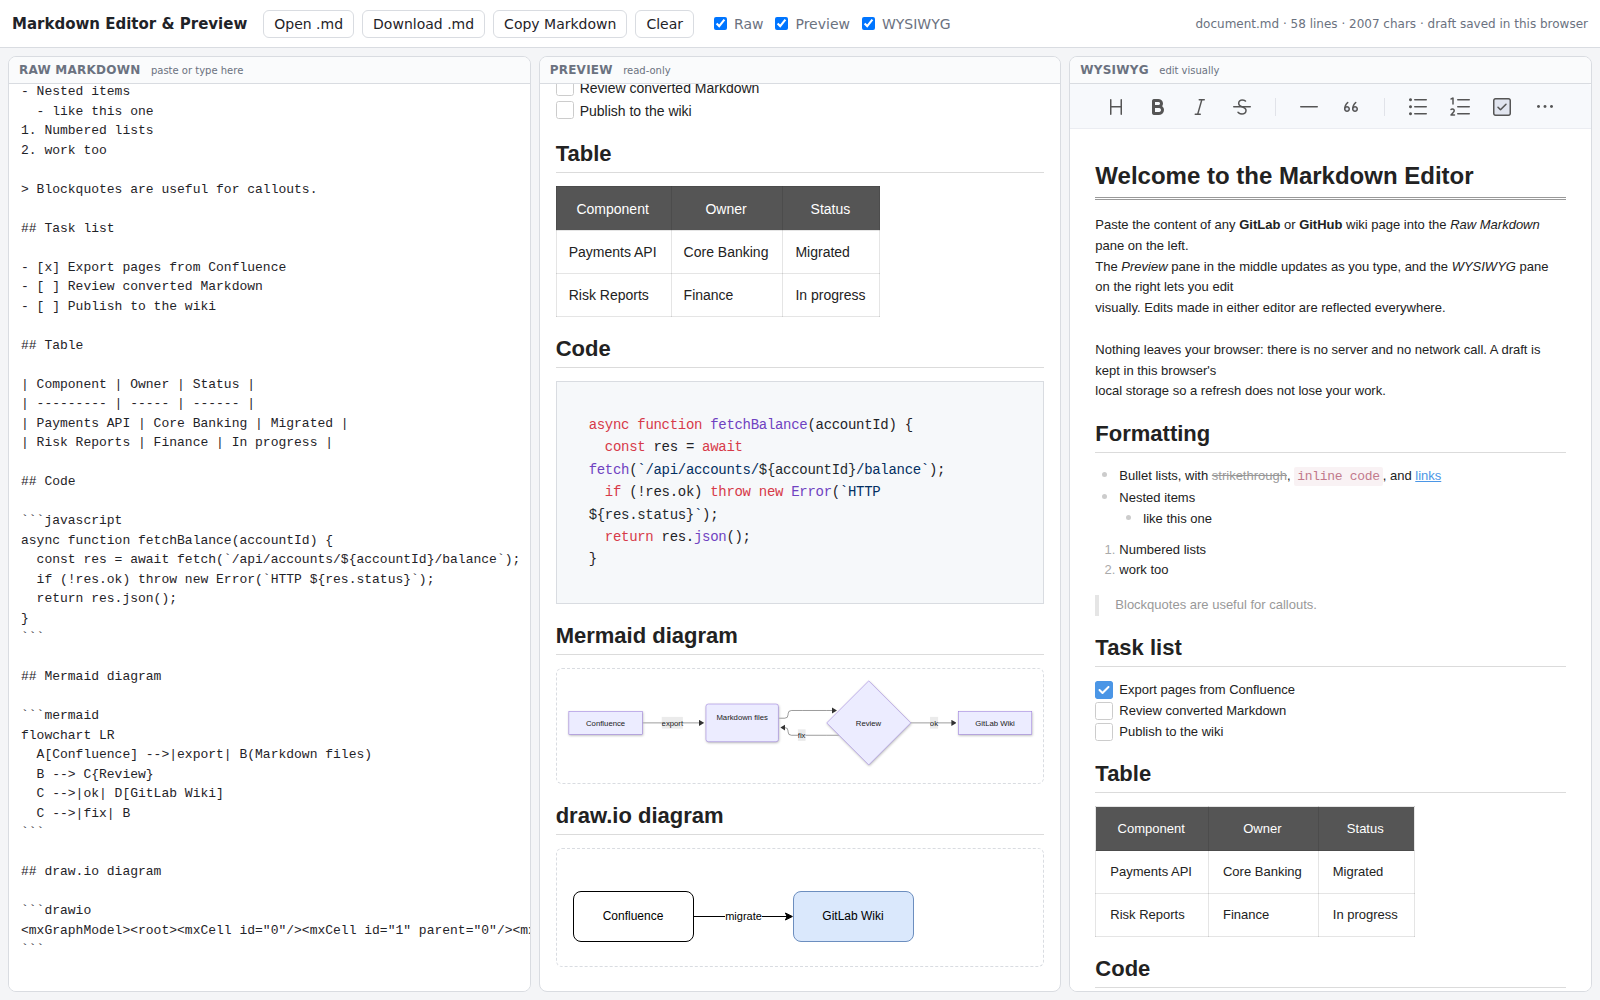
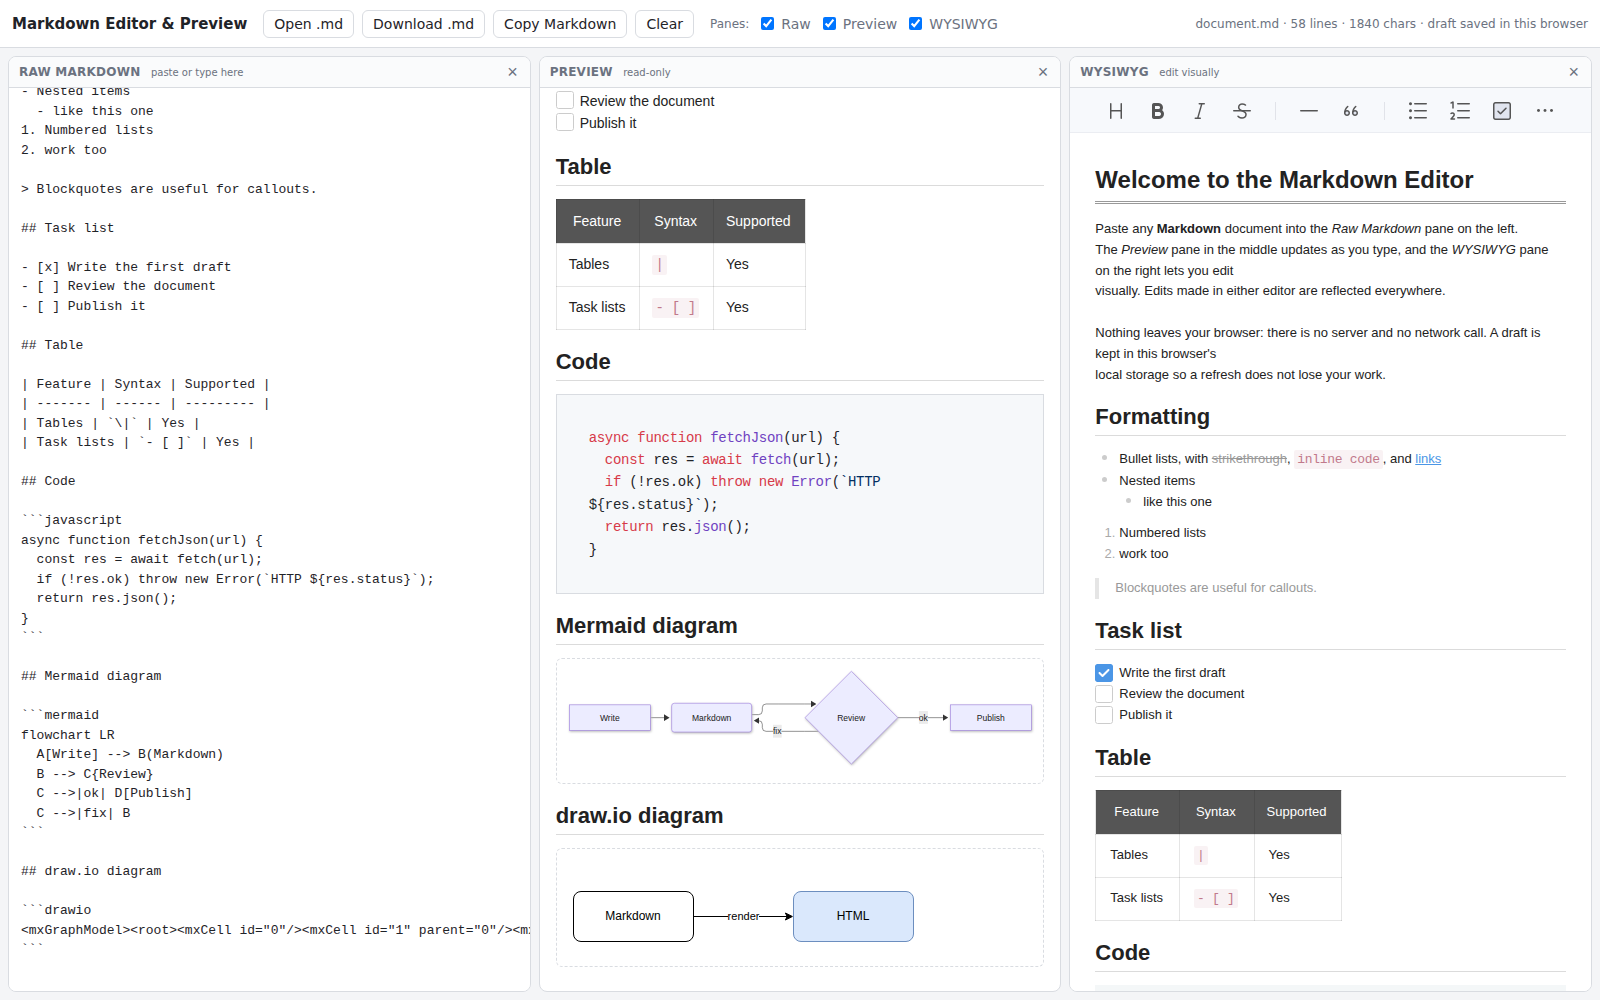
Make README and sample document generic
Remove wiki-migration and domain-specific wording from the README,
sample document, and package description so the project reads as a
general-purpose Markdown editor. Refresh the README screenshot.

Claude-Session: https://claude.ai/code/session_01Jamq97i9hDNVxsa4sEo2LB

diff --git a/src/sample.md b/src/sample.md
@@ -1,6 +1,6 @@
 # Welcome to the Markdown Editor
 
-Paste the content of any **GitLab** or **GitHub** wiki page into the *Raw Markdown* pane on the left.
+Paste any **Markdown** document into the *Raw Markdown* pane on the left.
 The *Preview* pane in the middle updates as you type, and the *WYSIWYG* pane on the right lets you edit
 visually. Edits made in either editor are reflected everywhere.
 
@@ -9,7 +9,7 @@ local storage so a refresh does not lose your work.
 
 ## Formatting
 
-- Bullet lists, with ~~strikethrough~~, `inline code`, and [links](https://docs.gitlab.com/ee/user/markdown.html)
+- Bullet lists, with ~~strikethrough~~, `inline code`, and [links](https://commonmark.org/help/)
 - Nested items
   - like this one
 1. Numbered lists
@@ -19,22 +19,22 @@ local storage so a refresh does not lose your work.
 
 ## Task list
 
-- [x] Export pages from Confluence
-- [ ] Review converted Markdown
-- [ ] Publish to the wiki
+- [x] Write the first draft
+- [ ] Review the document
+- [ ] Publish it
 
 ## Table
 
-| Component | Owner | Status |
-| --------- | ----- | ------ |
-| Payments API | Core Banking | Migrated |
-| Risk Reports | Finance | In progress |
+| Feature | Syntax | Supported |
+| ------- | ------ | --------- |
+| Tables | `\|` | Yes |
+| Task lists | `- [ ]` | Yes |
 
 ## Code
 
 ```javascript
-async function fetchBalance(accountId) {
-  const res = await fetch(`/api/accounts/${accountId}/balance`);
+async function fetchJson(url) {
+  const res = await fetch(url);
   if (!res.ok) throw new Error(`HTTP ${res.status}`);
   return res.json();
 }
@@ -44,14 +44,14 @@ async function fetchBalance(accountId) {
 
 ```mermaid
 flowchart LR
-  A[Confluence] -->|export| B(Markdown files)
+  A[Write] --> B(Markdown)
   B --> C{Review}
-  C -->|ok| D[GitLab Wiki]
+  C -->|ok| D[Publish]
   C -->|fix| B
 ```
 
 ## draw.io diagram
 
 ```drawio
-<mxGraphModel><root><mxCell id="0"/><mxCell id="1" parent="0"/><mxCell id="2" value="Confluence" style="rounded=1;whiteSpace=wrap;html=1;" vertex="1" parent="1"><mxGeometry x="20" y="20" width="120" height="50" as="geometry"/></mxCell><mxCell id="3" value="GitLab Wiki" style="rounded=1;whiteSpace=wrap;html=1;fillColor=#dae8fc;strokeColor=#6c8ebf;" vertex="1" parent="1"><mxGeometry x="240" y="20" width="120" height="50" as="geometry"/></mxCell><mxCell id="4" value="migrate" style="edgeStyle=orthogonalEdgeStyle;rounded=0;html=1;" edge="1" parent="1" source="2" target="3"><mxGeometry relative="1" as="geometry"/></mxCell></root></mxGraphModel>
+<mxGraphModel><root><mxCell id="0"/><mxCell id="1" parent="0"/><mxCell id="2" value="Markdown" style="rounded=1;whiteSpace=wrap;html=1;" vertex="1" parent="1"><mxGeometry x="20" y="20" width="120" height="50" as="geometry"/></mxCell><mxCell id="3" value="HTML" style="rounded=1;whiteSpace=wrap;html=1;fillColor=#dae8fc;strokeColor=#6c8ebf;" vertex="1" parent="1"><mxGeometry x="240" y="20" width="120" height="50" as="geometry"/></mxCell><mxCell id="4" value="render" style="edgeStyle=orthogonalEdgeStyle;rounded=0;html=1;" edge="1" parent="1" source="2" target="3"><mxGeometry relative="1" as="geometry"/></mxCell></root></mxGraphModel>
 ```

diff --git a/README.md b/README.md
@@ -1,10 +1,9 @@
 # Markdown Editor & Preview
 
-A small, self-contained, in-browser Markdown editor for teams migrating wiki pages
-from Confluence to GitLab / GitHub wikis. Paste the Markdown of a wiki page, see it
-rendered instantly, and edit it either as raw text or in a WYSIWYG view. Everything
-stays in memory in the browser: there is no server component and no network call
-at runtime.
+A small, self-contained, in-browser Markdown editor and previewer. Paste or open any
+Markdown document, see it rendered instantly, and edit it either as raw text or in a
+WYSIWYG view. Everything stays in memory in the browser: there is no server component
+and no network call at runtime.
 
 ![three panes: raw markdown, preview, WYSIWYG](docs/screenshot.png)
 
@@ -12,7 +11,8 @@ at runtime.
 
 - **Three synchronised panes**: Raw Markdown (editable) · Preview (read-only) · WYSIWYG (editable).
   A change in either editor updates the other two panes live.
-- **GitLab / GitHub Flavored Markdown**: tables, task lists, fenced code, strikethrough, autolinks.
+- **GitHub Flavored Markdown (GFM)**: tables, task lists, fenced code, strikethrough, autolinks,
+  as used by GitHub and GitLab wikis and most Markdown tools.
 - **Syntax highlighting** for fenced code blocks (highlight.js, common languages).
 - **Mermaid diagrams** in ```` ```mermaid ```` blocks, rendered in the preview.
 - **draw.io diagrams** in ```` ```drawio ```` blocks (paste the diagram XML, `<mxfile>` or
@@ -25,7 +25,7 @@ at runtime.
 
 ## Security posture
 
-Built for locked-down corporate networks:
+Designed to run on restricted networks with no external dependencies:
 
 - No CDN. All JavaScript is bundled into `dist/` at build time and served from the same
   place as `index.html`. The build makes **no outbound request** at runtime (verified with
@@ -99,9 +99,9 @@ Package `overrides` in `package.json` pin transitive dependencies to patched rel
   `public/vendor/drawio/` if you need them.
 - **Math in draw.io diagrams** needs MathJax, which is not bundled. See
   `public/vendor/drawio/math4/es5/startup.js` for how to drop it in.
-- **Images and attachments** referenced with relative paths (e.g. `uploads/…` or
-  `diagram.drawio.svg`) cannot be resolved because there is no wiki repository behind the
-  editor; they render as broken images in the preview. Absolute URLs work.
+- **Images and attachments** referenced with relative paths (e.g. `images/…` or
+  `diagram.drawio.svg`) cannot be resolved because there is no file system or repository
+  behind the editor; they render as broken images in the preview. Absolute URLs work.
 - Mermaid diagrams are rendered in the preview only; in the WYSIWYG pane they appear as an
   editable code block, which keeps the source intact when converting back to Markdown.
 - Single document at a time, no multi-tab or scroll sync yet.
